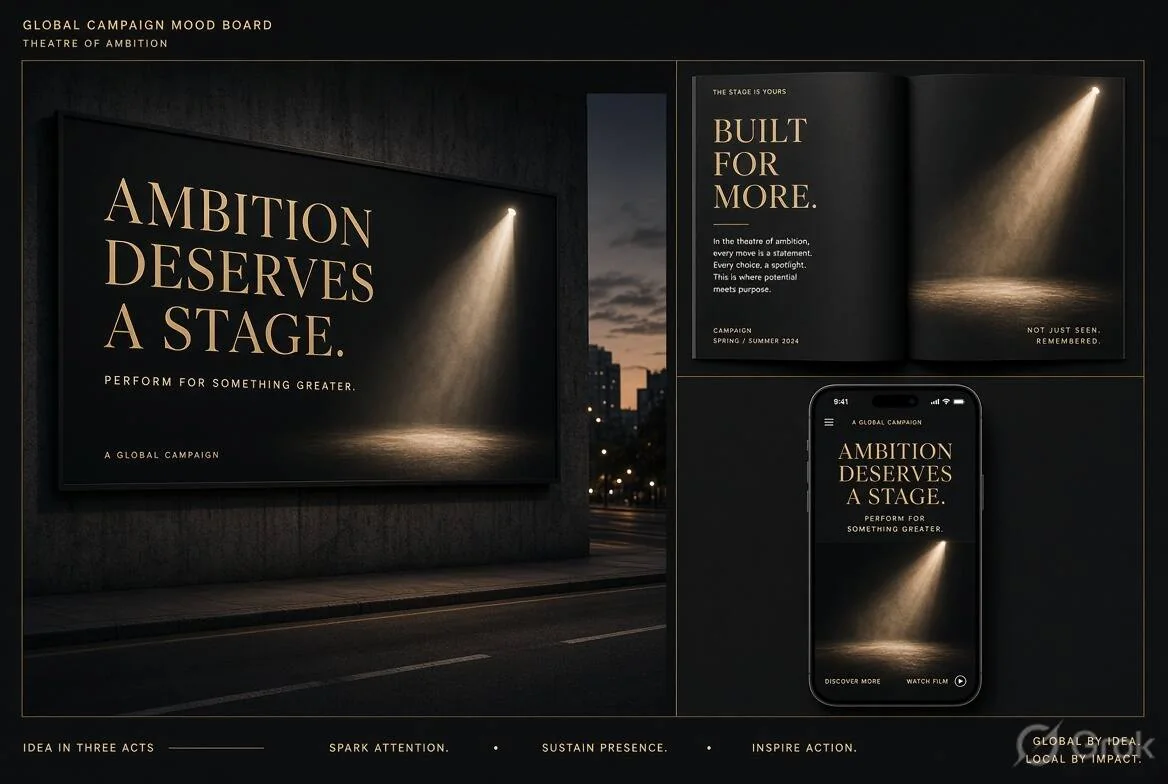
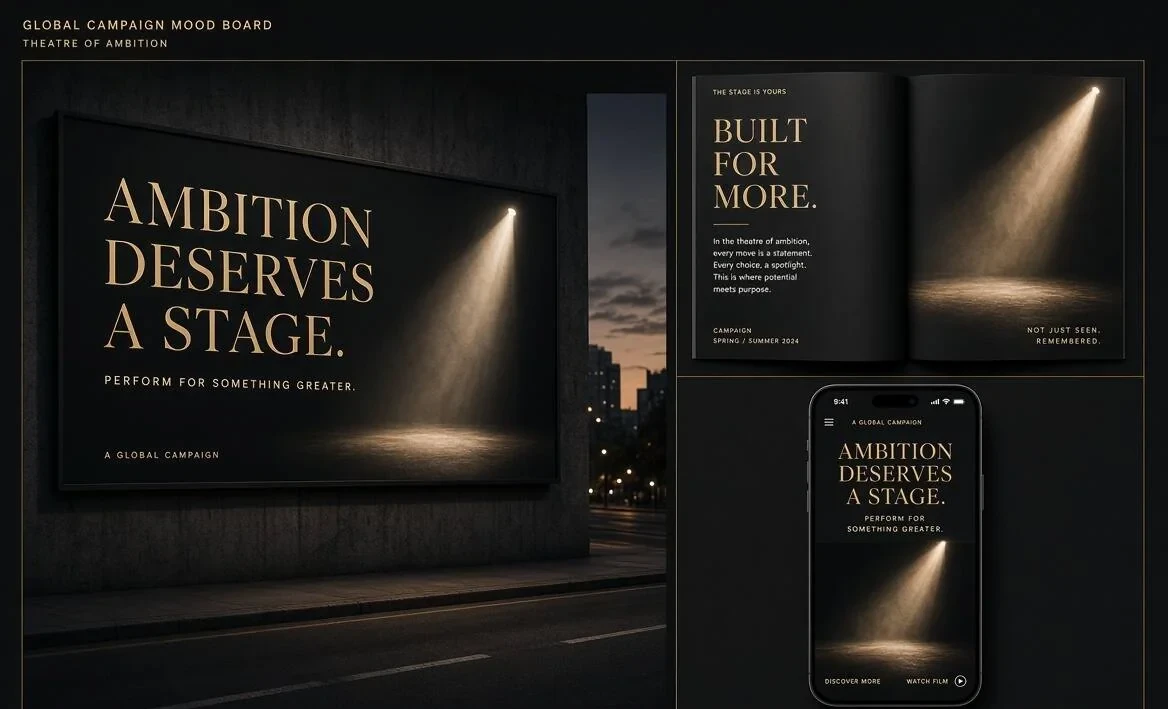
Portfolio polish: remove AI watermarks, shorter homepage, faster first view
- Crop 'Grok' watermark strip off the six presentation boards; stop upscaling boards past native width
- Homepage: work now follows the hero; stance/tapes/process removed (process stays on About)
- Remove 2.7s intro loader; gentler scroll reveals with a failsafe so content is never left hidden
- Link previews: metadataBase from Vercel production URL, twitter large card
- Fix contact email breaking mid-word and headline overflowing its column; footer wordmark no longer wraps

diff --git a/app/globals.css b/app/globals.css
@@ -152,11 +152,13 @@ a:focus-visible, button:focus-visible, input:focus-visible, textarea:focus-visib
 @keyframes fade { to { opacity: 1; } }
 
 /* scroll reveal (IntersectionObserver adds .in) */
-.reveal { opacity: 0; transform: translateY(44px); transition: opacity 0.9s var(--ease), transform 0.9s var(--ease); }
+.reveal { opacity: 0; transform: translateY(14px); transition: opacity 0.6s var(--ease), transform 0.6s var(--ease); }
 .reveal.in { opacity: 1; transform: none; }
-.reveal-clip { clip-path: inset(14% 14% 14% 14% round 24px); filter: saturate(0); transition: clip-path 1.2s var(--ease), filter 1.2s var(--ease); }
-.reveal-clip.in { clip-path: inset(0 0 0 0 round 0); filter: none; }
+.reveal-clip { opacity: 0; transition: opacity 0.7s var(--ease); }
+.reveal-clip.in { opacity: 1; }
 .no-js .reveal, .no-js .reveal-clip { opacity: 1; transform: none; clip-path: none; filter: none; }
+/* safety net: never leave content hidden if the observer does not fire (tools, print, odd browsers) */
+.reveal-all .reveal, .reveal-all .reveal-clip { opacity: 1; transform: none; }
 
 @supports (animation-timeline: view()) {
   .parallax { animation: para linear both; animation-timeline: view(); }
@@ -322,7 +324,7 @@ a:focus-visible, button:focus-visible, input:focus-visible, textarea:focus-visib
 
 /* ---------- footer ---------- */
 .site-footer { border-top: 1px solid var(--line); padding-top: 56px; padding-bottom: 40px; }
-.giant { font-family: var(--font-display); font-weight: 800; font-size: clamp(64px, 14vw, 200px); line-height: 0.9; letter-spacing: -0.045em; color: transparent; -webkit-text-stroke: 1px rgba(255, 255, 255, 0.22); padding-top: 24px; user-select: none; }
+.giant { font-family: var(--font-display); font-weight: 800; font-size: clamp(40px, 10.5vw, 160px); line-height: 0.9; white-space: nowrap; letter-spacing: -0.045em; color: transparent; -webkit-text-stroke: 1px rgba(255, 255, 255, 0.22); padding-top: 24px; user-select: none; }
 .giant span { display: inline-block; transition: transform 0.45s var(--ease), color 0.3s, -webkit-text-stroke-color 0.3s; }
 .giant span:hover { transform: translateY(-22px) rotate(-4deg); color: var(--accent); -webkit-text-stroke-color: var(--accent); }
 .foot-row { margin-top: 40px; display: flex; justify-content: space-between; align-items: center; gap: 24px; font-size: 13px; color: var(--muted-2); }
@@ -408,7 +410,7 @@ a:focus-visible, button:focus-visible, input:focus-visible, textarea:focus-visib
 .timeline > li > ul li + li { margin-top: 6px; }
 .timeline > li > ul li::marker { color: var(--accent); }
 
-.cta-mail { display: inline-block; margin-top: 30px; font-family: var(--font-display); font-weight: 800; font-size: clamp(20px, 2.2vw, 30px); letter-spacing: -0.02em; border-bottom: 2px solid currentColor; padding-bottom: 4px; word-break: break-all; }
+.cta-mail { display: inline-block; margin-top: 30px; font-family: var(--font-display); font-weight: 800; font-size: clamp(13px, 3.7vw, 24px); letter-spacing: -0.02em; border-bottom: 2px solid currentColor; padding-bottom: 4px; max-width: 100%; overflow-wrap: anywhere; }
 .cta-links { margin-top: 22px; display: flex; flex-wrap: wrap; gap: 10px; }
 .cta-links a { display: inline-flex; align-items: center; gap: 8px; min-height: 44px; padding: 0 18px; border-radius: 999px; background: var(--bg); color: var(--fg); font-weight: 600; font-size: 14px; transition: background 0.2s, color 0.2s; }
 .cta-links a:hover { background: var(--fg); color: var(--bg); }
@@ -434,7 +436,7 @@ a:focus-visible, button:focus-visible, input:focus-visible, textarea:focus-visib
 .edu span { color: var(--muted); font-size: 14px; }
 .edu em { font-style: normal; font-family: var(--font-mono); font-size: 13px; color: var(--accent); }
 
-.board-hero { position: relative; border-radius: 26px; overflow: hidden; border: 1px solid var(--line); aspect-ratio: 3 / 2; }
+.board-hero { position: relative; border-radius: 26px; overflow: hidden; border: 1px solid var(--line); aspect-ratio: 1168 / 709; max-width: 1168px; margin-inline: auto; }
 .board-hero img { width: 100%; height: 100%; object-fit: cover; }
 .board-grid { display: grid; grid-template-columns: minmax(0, 0.9fr) minmax(0, 1.1fr); gap: 60px; align-items: start; padding-top: 56px; }
 .facts { display: grid; border-top: 1px solid rgba(255, 255, 255, 0.1); }
@@ -525,3 +527,7 @@ a:focus-visible, button:focus-visible, input:focus-visible, textarea:focus-visib
   .steps-fill { transform: scaleX(1); }
   .timeline-fill { transform: scaleY(1); }
 }
+
+/* contact headline: sized so the longest word ("beginning?", "listening.") never overflows its column */
+.cta-h { font-size: clamp(32px, 4.5vw, 64px); line-height: 0.96; letter-spacing: -0.04em; font-weight: 800; }
+@media (max-width: 700px) { .cta-h { font-size: 9vw; } }

diff --git a/components/sections.tsx b/components/sections.tsx
@@ -189,7 +189,7 @@ export function Experience({ compact = false }: { compact?: boolean }) {
   return (
     <section className="wrap section split" id="experience">
       <div className="exp-side">
-        <p className="eyebrow">[{compact ? '05' : '02'}] — Where the work happened</p>
+        <p className="eyebrow">[{compact ? '03' : '02'}] — Where the work happened</p>
         <h2 className="h-md" style={{ marginTop: 18, fontSize: 'clamp(34px, 3.4vw, 50px)' }}>
           Agency, global media, <span className="accent" style={{ whiteSpace: 'nowrap' }}>in-house.</span>
         </h2>
@@ -247,7 +247,7 @@ export function Services() {
   return (
     <section className="wrap section" id="services" style={{ paddingTop: 60 }}>
       <div className="split" style={{ marginBottom: 48 }}>
-        <p className="eyebrow">[03] — What I do</p>
+        <p className="eyebrow">[02] — What I do</p>
         <h2 className="h-md reveal" style={{ maxWidth: 820 }}>Different formats. Always the same starting point.</h2>
       </div>
       <div className="grid-3">
@@ -311,7 +311,7 @@ export function AboutTeaser() {
         </div>
       </div>
       <div>
-        <p className="eyebrow" style={{ marginBottom: 22 }}>[06] — Hello, I’m Priyanka</p>
+        <p className="eyebrow" style={{ marginBottom: 22 }}>[04] — Hello, I’m Priyanka</p>
         <h2 className="h-md" style={{ fontSize: 'clamp(42px, 4.6vw, 64px)' }}>
           Curious mind.
           <br />
@@ -356,7 +356,7 @@ export function ContactBlock({ heading = true, showPhone = false }: { heading?: 
             Open to senior roles, retainers &amp; brand-system projects
           </p>
           {heading ? (
-            <h2 className="disp" style={{ fontSize: 'clamp(44px, 5.4vw, 76px)', lineHeight: 0.96, letterSpacing: '-0.04em', fontWeight: 800 }}>
+            <h2 className="disp cta-h">
               Got a brief?
               <br />
               Or a messy
@@ -364,7 +364,7 @@ export function ContactBlock({ heading = true, showPhone = false }: { heading?: 
               beginning?
             </h2>
           ) : (
-            <h1 className="disp" style={{ fontSize: 'clamp(48px, 6vw, 88px)', lineHeight: 0.94, letterSpacing: '-0.04em', fontWeight: 800 }}>
+            <h1 className="disp cta-h">
               Big idea?
               <br />
               Messy brief?

diff --git a/components/effects.tsx b/components/effects.tsx
@@ -6,29 +6,6 @@ import { usePathname } from 'next/navigation';
 const prefersReduced = () =>
   typeof window !== 'undefined' && window.matchMedia('(prefers-reduced-motion: reduce)').matches;
 
-/** Intro screen shown on a full page load; removed from the DOM once it has slid away. */
-export function Preloader() {
-  const [show, setShow] = useState(true);
-  useEffect(() => {
-    const t = window.setTimeout(() => setShow(false), prefersReduced() ? 0 : 2700);
-    return () => window.clearTimeout(t);
-  }, []);
-  if (!show) return null;
-  return (
-    <div className="preload" aria-hidden="true">
-      <div className="word">
-        ps<span className="accent">.</span>graphiq
-      </div>
-      <div className="plbar">
-        <span />
-      </div>
-      <div className="mono" style={{ fontSize: 11, letterSpacing: 3, color: 'var(--muted-2)' }}>
-        LOADING IDEAS WITH INTENT
-      </div>
-    </div>
-  );
-}
-
 /**
  * Site-wide motion layer: scroll progress, custom cursor, cursor spotlight,
  * scroll reveals, count-up numbers and magnetic buttons ([data-magnetic]).
@@ -131,13 +108,15 @@ export function Effects() {
           io.unobserve(el);
         });
       },
-      { threshold: 0.18, rootMargin: '0px 0px -40px 0px' },
+      { threshold: 0, rootMargin: '0px 0px 120px 0px' },
     );
     els.forEach((el) => {
       if (el.dataset.count && !reduced) el.textContent = '0';
       io.observe(el);
     });
-    return () => io.disconnect();
+    // Failsafe: reveal everything after a few seconds, e.g. for full-page capture tools.
+    const failsafe = window.setTimeout(() => document.documentElement.classList.add('reveal-all'), 4000);
+    return () => { io.disconnect(); window.clearTimeout(failsafe); };
   }, [pathname]);
 
   return (

diff --git a/app/layout.tsx b/app/layout.tsx
@@ -1,10 +1,11 @@
 import type { Metadata, Viewport } from 'next';
 import SiteHeader from '../components/site-header';
 import SiteFooter from '../components/site-footer';
-import { Effects, Preloader } from '../components/effects';
+import { Effects } from '../components/effects';
 import './globals.css';
 
 export const metadata: Metadata = {
+  metadataBase: new URL(process.env.NEXT_PUBLIC_SITE_URL ?? (process.env.VERCEL_PROJECT_PRODUCTION_URL ? `https://${process.env.VERCEL_PROJECT_PRODUCTION_URL}` : 'http://localhost:3000')),
   icons: { icon: '/favicon.svg' },
   title: { default: 'PS Graphiq — Priyanka Sharma, Senior Graphic Designer', template: '%s — PS Graphiq' },
   description:
@@ -12,8 +13,11 @@ export const metadata: Metadata = {
   openGraph: {
     title: 'PS Graphiq — Design with intent',
     description: 'Brand identities, packaging and campaigns by Priyanka Sharma.',
-    images: ['/images/meloni-pack.webp'],
+    images: [{ url: '/images/meloni-pack.webp', alt: 'Meloni Kiss packaging by Priyanka Sharma' }],
+    type: 'website',
+    siteName: 'PS Graphiq',
   },
+  twitter: { card: 'summary_large_image' },
 };
 
 export const viewport: Viewport = { width: 'device-width', initialScale: 1, themeColor: '#07080b' };
@@ -26,7 +30,6 @@ export default function RootLayout({ children }: { children: React.ReactNode }) 
         <link rel="preload" href="/fonts/manrope-latin-400-normal.woff2" as="font" type="font/woff2" crossOrigin="" />
       </head>
       <body id="top">
-        <Preloader />
         <Effects />
         <SiteHeader />
         {children}

diff --git a/components/work-gallery.tsx b/components/work-gallery.tsx
@@ -61,7 +61,7 @@ export default function WorkGallery() {
     <>
       <div className="section-head">
         <div>
-          <p className="eyebrow" style={{ marginBottom: 16 }}>[02] — The ideas, out in the world</p>
+          <p className="eyebrow" style={{ marginBottom: 16 }}>[01] — The ideas, out in the world</p>
           <h2 className="h-lg">
             Selected work<span className="accent">.</span>
           </h2>
@@ -110,7 +110,7 @@ export default function WorkGallery() {
       {lb && (
         <div className="lightbox" role="dialog" aria-modal="true" aria-label={`${lb.name} artwork`} onClick={(e) => e.target === e.currentTarget && close()}>
           <div className="lb-inner">
-            <div className="lb-media" style={{ background: lb.color, aspectRatio: lb.format === 'board' ? '3 / 2' : '1 / 1' }}>
+            <div className="lb-media" style={{ background: lb.color, aspectRatio: lb.format === 'board' ? '1168 / 709' : '1 / 1' }}>
               <img src={`/images/${lb.image}`} alt={lb.alt} />
             </div>
             <div>

diff --git a/app/page.tsx b/app/page.tsx
@@ -1,20 +1,17 @@
 import WorkGallery from '../components/work-gallery';
-import { AboutTeaser, Ambient, Band, ContactBlock, Experience, Hero, Manifesto, NamedWork, Process, Services, Tapes } from '../components/sections';
+import { AboutTeaser, Ambient, ContactBlock, Experience, Hero, NamedWork, Services } from '../components/sections';
 
+/* Kept short on purpose: reviewers skim. The stance and process live on /about. */
 export default function Home() {
   return (
     <main id="main" style={{ position: 'relative' }}>
       <Ambient />
       <Hero />
-      <Band />
-      <Manifesto />
       <NamedWork />
-      <section className="wrap" id="work" style={{ paddingTop: 40, paddingBottom: 120 }}>
+      <section className="wrap" id="work" style={{ paddingTop: 40, paddingBottom: 100 }}>
         <WorkGallery />
       </section>
-      <Tapes />
       <Services />
-      <Process />
       <Experience compact />
       <AboutTeaser />
       <ContactBlock />
